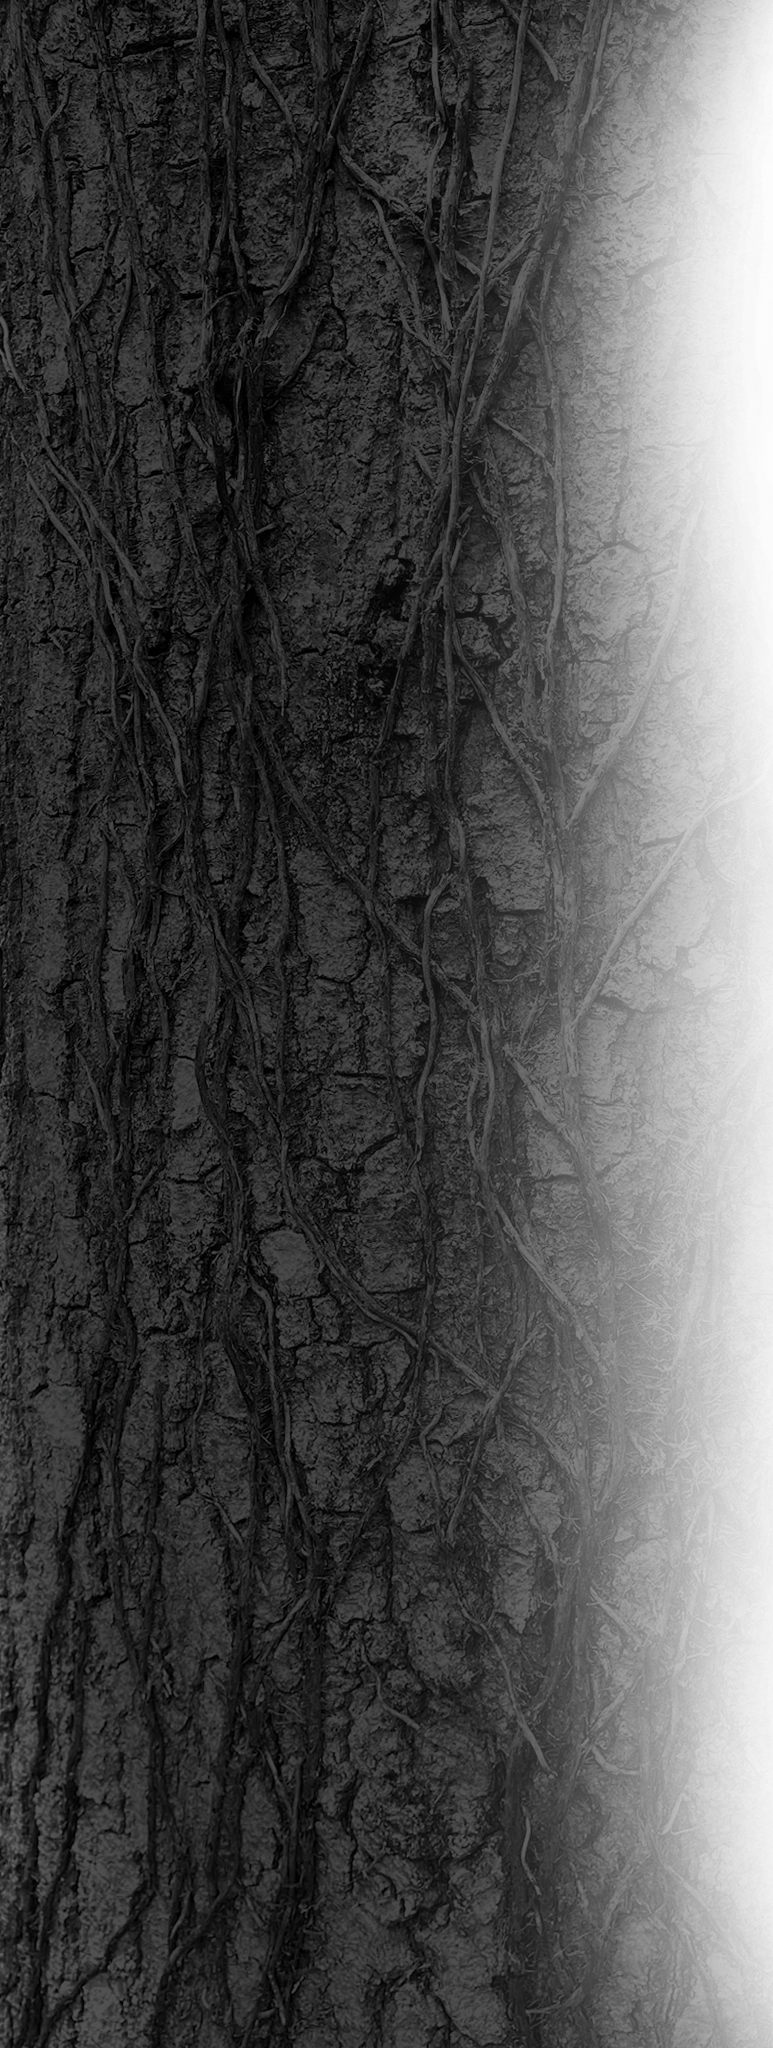
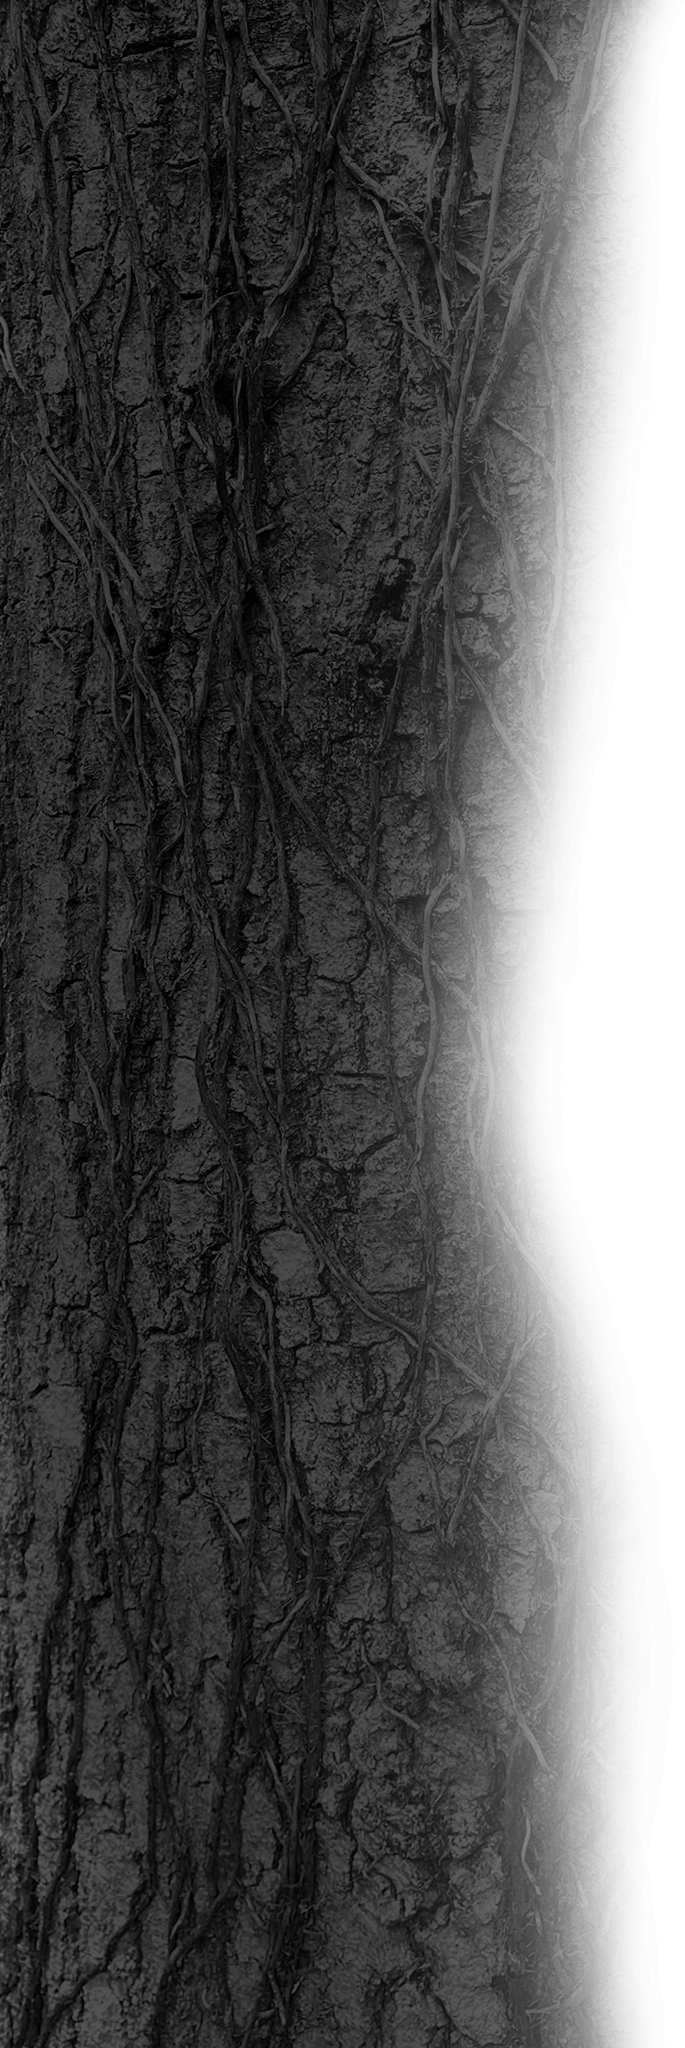
- Refactor Dark Mode Toggle button to component - Refactor Mouse Position readout to component - Add HomeFrame component - Refactor Home page text to conditional logic based on siteState - Add Mixins & Variables - Replace trunk-1.png with updated png

diff --git a/app/page.tsx b/app/page.tsx
@@ -1,10 +1,14 @@
 'use client';
 
-import "./page.scss";
 import { useEffect, useState } from "react";
+import Image from "next/image";
 import artLogo from "../assets/logos/art_logo.png";
 import tattooLogo from "../assets/logos/tattoo_logo.png";
-import Image from "next/image";
+import DarkModeButtons from "@/components/DarkModeButtons/DarkModeButtons";
+import MousePosition from "@/components/MousePosition/MousePosition";
+import classes from "./page.module.scss";
+import HomeFrame from "@/components/HomeFrame/HomeFrame";
+
 const artBg1 = "url(images/art/painting_1/sandra-ivdra-art-painting-1-room.jpg)"
 const tattooBg1 = "url(images/tattoo/FB_IMG_1712266126903.jpg)"
 
@@ -30,7 +34,9 @@ export default function Home() {
 		}
 	}
 
+
 	useEffect(() => {
+		// Event listener for mouse position
 		window.addEventListener("mousemove", updateMousePosition);
 
 		return () => window.removeEventListener("mousemove", updateMousePosition);
@@ -38,50 +44,43 @@ export default function Home() {
 
 
 	return (
-		<main className="main" style={{
+		<main className={classes.main} style={{
 			backgroundImage: siteState === 'tattoo' ? tattooBg1 : artBg1
 		}}>
 
-			<section className="tattoo">
-				<h1 className="tattoo__header">
-					Tattoo Artist
-				</h1>
-			</section>
-			<section className="art">
-				<h1 className="art__header">
-					Fine Artist
-				</h1>
-			</section>
-			<section className="logo-container"
+			<HomeFrame siteState={siteState} />
+
+			{siteState === 'tattoo' ? (
+				<div className={classes.tattoo}>
+					<h1 className={classes.tattooHeader}>
+						Tattoo Artist
+					</h1>
+				</div>
+			) : (
+				<div className={classes.art}>
+					<h1 className={classes.artHeader}>
+						Fine Artist
+					</h1>
+				</div>
+			)}
+
+			<section className={classes.logoContainer}
 				style={{
 					filter: `${darkMode ? "invert(100%)" : ""}`
 				}}>
-				<Image src={siteState === 'tattoo' ? tattooLogo : artLogo} alt="" className="logo-container__logo" />
+				<Image src={siteState === 'tattoo' ? tattooLogo : artLogo} alt="" className={classes.logoContainerLogo} />
 			</section>
 
-			<div style={{
-				position: "absolute",
-				right: "8px",
-				top: "8px",
-				display: "flex",
-				gap: "8px"
-			}}>
-				<button onClick={handleClick} className="button">
-					{darkMode ? "Light Mode" : "Dark Mode"}
-				</button>
+			<DarkModeButtons
+				darkMode={darkMode}
+				handleClick={handleClick}
+				siteState={siteState}
+				handleSiteState={handleSiteState}
+			/>
 
-				<button onClick={handleSiteState} className="button">
-					{siteState === "tattoo" ? "Tattoo Logo" : "Art Logo"}
-				</button>
-
-			</div>
-			<p style={{
-				position: "absolute",
-				bottom: "8px",
-				left: "8px",
-				color: "white"
-
-			}}>Current mouse position: {mousePosition.x}, {mousePosition.y}</p>
+			<MousePosition
+				mousePosition={mousePosition}
+			/>
 
 		</main>
 	);

diff --git a/app/page.module.scss b/app/page.module.scss
@@ -1,5 +1,58 @@
-.buttonContainer {
+.main {
+	width: 100dvw;
+	height: 100dvh;
+	background-size: cover;
+	background-position: center;
+	display: flex;
+	// justify-content: center;
+	align-items: center;
+	position: relative;
+}
+
+.tattoo {
+	height: 100%;
+	// width: 100%;
+	background-size: cover;
+	// display: flex;
+	color: #fff;
+	flex: 1;
+	margin-top: 150px;
+	z-index: 10;
+
+	&Header {
+		font-size: 80px;
+		text-align: center;
+	}
+}
+
+.art {
+	height: 100%;
+	// width: 100%;
+	background-size: cover;
+	// display: flex;
+	color: #fff;
+	flex: 1;
+	margin-top: 150px;
+	z-index: 10;
+
+	&Header {
+		font-size: 80px;
+		text-align: center;
+	}
+}
+
+
+.logoContainer {
 	position: absolute;
-	right: 8px;
-	top: 8px;
+	left: 50%;
+	top: 50%;
+	transform: translate(-50%, -50%);
+	background-color: rgba(231, 231, 231, 0.8);
+
+	&Logo {
+		width: 300px;
+		height: auto;
+		// box-shadow: 4px 4px 8px rgba(0, 0, 0, 0.8);
+		// text-shadow: 2px 2px 4px rgba(0, 0, 0, 0.8);
+	}
 }

diff --git a/components/DarkModeButtons/DarkModeButtons.tsx b/components/DarkModeButtons/DarkModeButtons.tsx
@@ -1,0 +1,17 @@
+import { ReactElement } from 'react'
+import classes from './DarkModeButtons.module.scss'
+
+export default function DarkModeButtons({ darkMode, siteState, handleClick, handleSiteState }: any): ReactElement {
+	return (
+		<div className={classes.buttonContainer} >
+			<button onClick={handleClick} className={classes.button}>
+				{darkMode ? "Light Mode" : "Dark Mode"}
+			</button>
+
+			<button onClick={handleSiteState} className={classes.button}>
+				{siteState === "tattoo" ? "Tattoo Logo" : "Art Logo"}
+			</button>
+
+		</div >
+	)
+}

diff --git a/app/styles/partials/_mixins.scss b/app/styles/partials/_mixins.scss
@@ -1,0 +1,33 @@
+@import './variables';
+@import './fonts';
+
+// Media Queries
+@mixin custom($min-width) {
+	@media (min-width: $min-width) {
+		@content;
+	}
+}
+
+@mixin tablet {
+	@media (min-width: $tablet-breakpoint) {
+		@content;
+	}
+}
+
+@mixin desktop-header {
+	@media (min-width: $header-desktop-breakpoint) {
+		@content;
+	}
+}
+
+@mixin desktop {
+	@media (min-width: $desktop-breakpoint) {
+		@content;
+	}
+}
+
+@mixin desktop-large {
+	@media (min-width: $desktop-large-breakpoint) {
+		@content;
+	}
+}

diff --git a/components/HomeFrame/HomeFrame.tsx b/components/HomeFrame/HomeFrame.tsx
@@ -1,0 +1,17 @@
+import { ReactElement } from 'react';
+import Image from 'next/image';
+import classes from './HomeFrame.module.scss'
+
+import artFrameLeft from '../../assets/trunk-1.png'
+import artFrameRight from '../../assets/trunk-3.png'
+
+
+export default function HomeFrame({ siteState }: any): ReactElement {
+
+	return (
+		<>
+			<Image src={artFrameLeft} alt="" className={classes.artFrameLeft} />
+			<Image src={artFrameRight} alt="" className={classes.artFrameRight} />
+		</>
+	)
+};

diff --git a/components/DarkModeButtons/DarkModeButtons.module.scss b/components/DarkModeButtons/DarkModeButtons.module.scss
@@ -1,0 +1,19 @@
+.buttonContainer {
+	position: absolute;
+	right: 8px;
+	top: 8px;
+	display: flex;
+	gap: 8px;
+	z-index: 10;
+}
+
+.button {
+	border: #fff solid 1px;
+	border-radius: 6px;
+	color: #fff;
+	padding: 8px;
+	right: 8px;
+	top: 8px;
+	box-shadow: 4 4 8px rgba(0, 0, 0, 0.8);
+	font-weight: bold;
+}

diff --git a/components/MousePosition/MousePosition.tsx b/components/MousePosition/MousePosition.tsx
@@ -1,0 +1,10 @@
+import { ReactElement } from 'react';
+import classes from './MousePosition.module.scss';
+
+export default function MousePosition({ mousePosition }: any): ReactElement {
+	return (
+		<p className={classes.mousePos}>
+			Current mouse position: {mousePosition.x}, {mousePosition.y}
+		</p>
+	)
+}

diff --git a/app/styles/partials/_variables.scss b/app/styles/partials/_variables.scss
@@ -1,0 +1,14 @@
+// Colors
+$silver: #afafaf;
+$white: #fff;
+$light-black: #323232;
+$darkblack: #000;
+$mercury: #e1e1e1;
+$alabaster: #fafafa;
+
+
+// Breakpoints
+$tablet-breakpoint: 768px;
+$header-desktop-breakpoint: 1105px;
+$desktop-breakpoint: 1280px;
+$desktop-large-breakpoint: 1375px;

diff --git a/components/HomeFrame/HomeFrame.module.scss b/components/HomeFrame/HomeFrame.module.scss
@@ -1,0 +1,15 @@
+.artFrameLeft {
+	height: 110%;
+	width: auto;
+	position: absolute;
+	left: -60px;
+	z-index: 8;
+}
+
+.artFrameRight {
+	height: 110%;
+	width: auto;
+	position: absolute;
+	right: -40px;
+	z-index: 8;
+}

diff --git a/components/MousePosition/MousePosition.module.scss b/components/MousePosition/MousePosition.module.scss
@@ -1,0 +1,6 @@
+.mousePos {
+	position: absolute;
+	bottom: 8px;
+	left: 8px;
+	color: white;
+}
